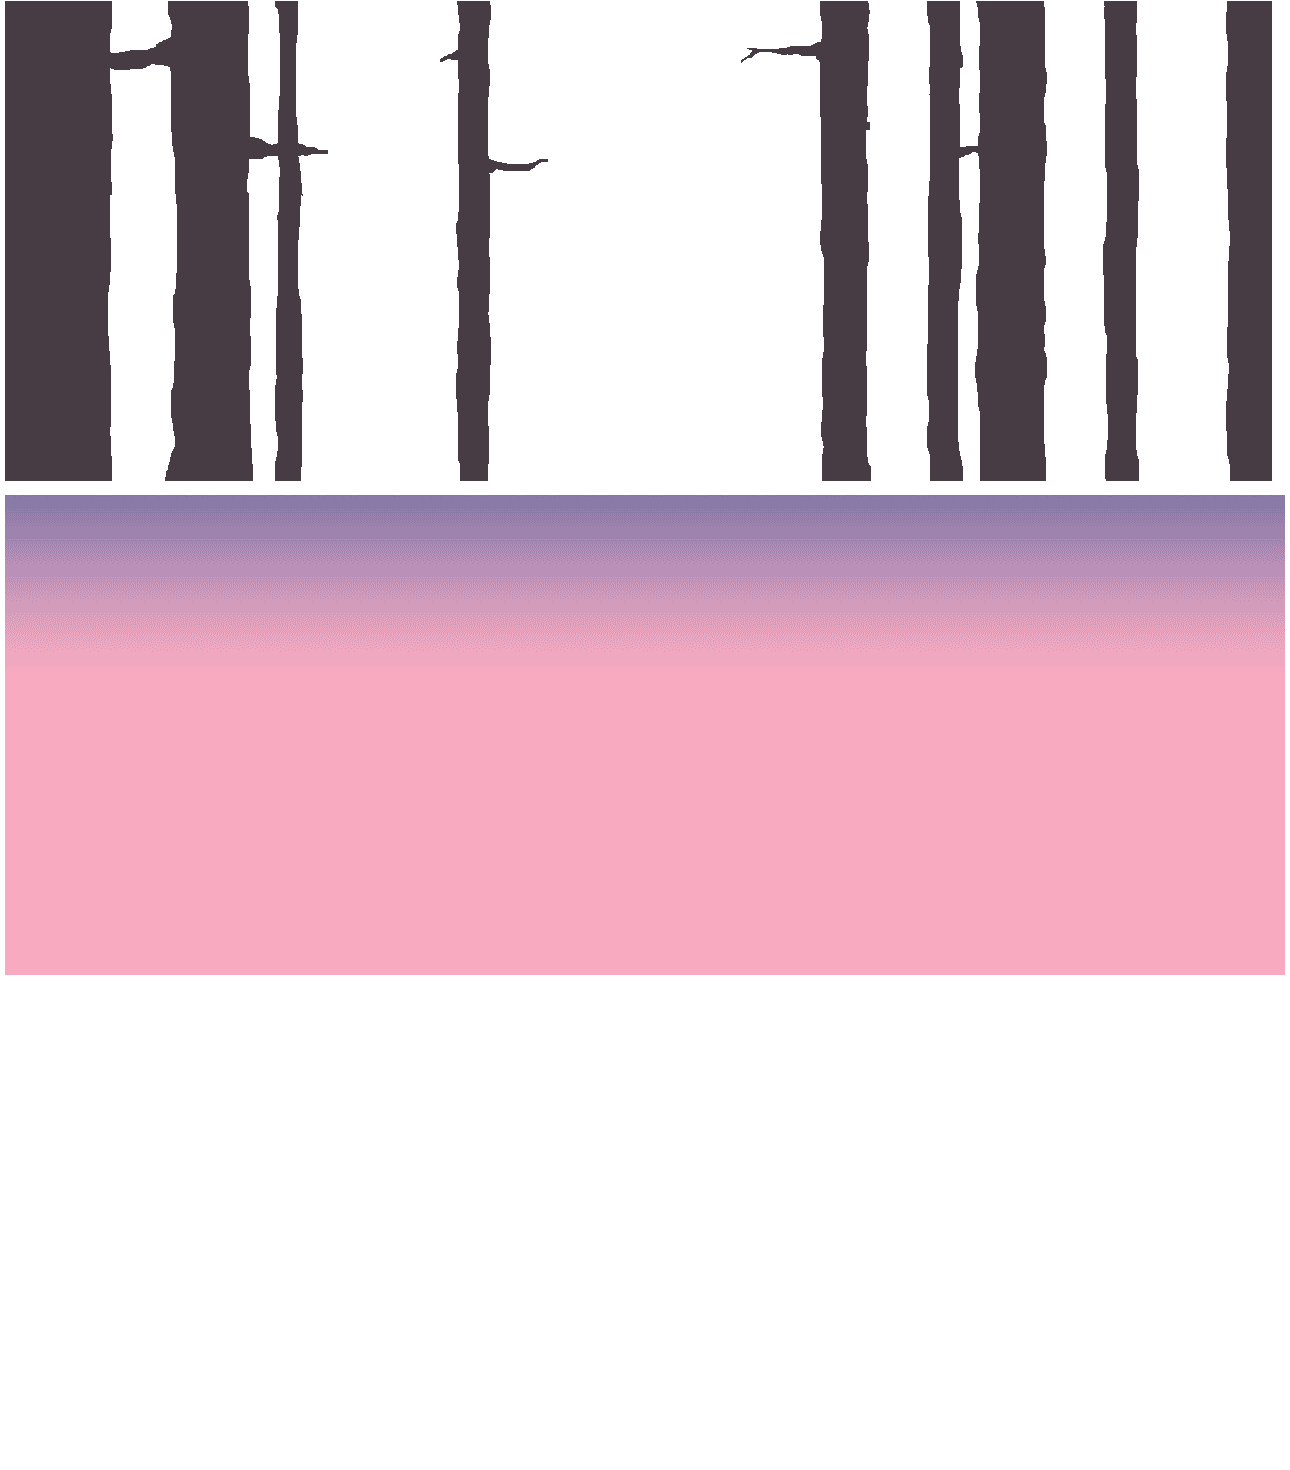
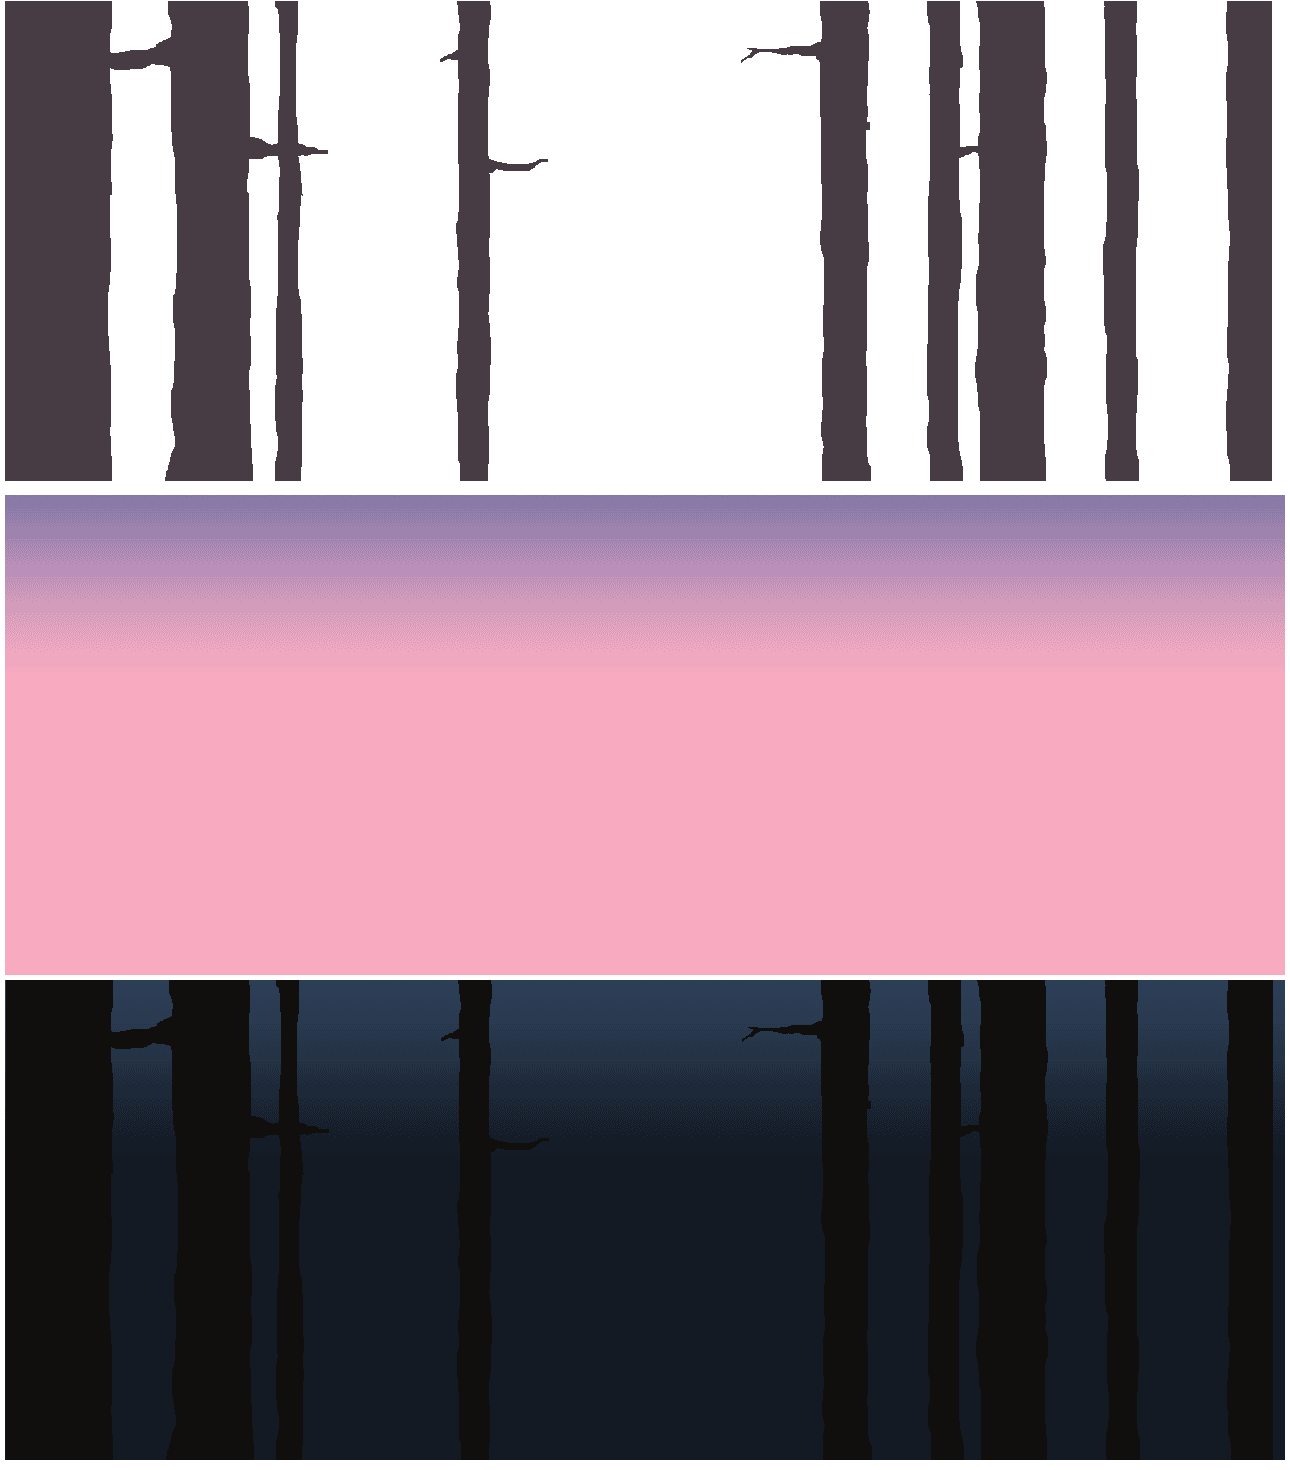
got spritesheet switching and colors changing for rush mode

diff --git a/common.js b/common.js
@@ -10,7 +10,8 @@ myLoader.addFiles(
   "images/wolflarge.png",
   "images/feathers.png",
   "images/hearts.png",
-  "images/wood.png"
+  "images/wood.png",
+  'images/combosprites.png'
   );
 
 myLoader.on('finish', function(){
@@ -30,6 +31,7 @@ $('#start').click(function(){
     start();
     $('#start').addClass("hidden");
     $('#racer').removeClass("hidden");
+    poofSound.play();
 });
 
 document.onkeydown=function(e){
@@ -38,6 +40,7 @@ document.onkeydown=function(e){
     title = false;
     $('#start').addClass("hidden");
     $('#racer').removeClass("hidden");
+    poofSound.play();
   }
 }
 
@@ -348,8 +351,13 @@ var Render = {
 
     var clipH = clipY ? Math.max(0, destY+destH-clipY) : 0;
     if (clipH < destH)
-      ctx.drawImage(sprites, sprite.x, sprite.y, sprite.w, sprite.h - (sprite.h*clipH/destH), destX, destY, destW, destH - clipH);
-
+      if (isCombo === false) {
+        ctx.drawImage(sprites, sprite.x, sprite.y, sprite.w, sprite.h - (sprite.h*clipH/destH), destX, destY, destW, destH - clipH);
+      } else if (isCombo === true && currentCombo >= 3) {
+        var img = new Image();   // Create new img element
+        img.src = 'images/combosprites.png'; // Set source path
+        ctx.drawImage(img, sprite.x, sprite.y, sprite.w, sprite.h - (sprite.h*clipH/destH), destX, destY, destW, destH - clipH);
+      }  
   },
 
   //---------------------------------------------------------------------------
@@ -409,6 +417,18 @@ var COLORS = {
   FINISH: { road: '#efefef',   grass: '#e9e9e9',   rumble: '#e9e9e9'               }
 };
 
+
+var COMBOCOLORS = {
+    SKY:  '#000000',
+    TREE: '#000000',
+    FOG:  '#000000',
+    LIGHT:  { road: '#1d2838',   grass: '#101a24',   rumble: '#101a24', lane: '#1d2838'  },
+    DARK:   { road: '#1d2838',   grass: '#101a24',   rumble: '#101a24'                   },
+    START:  { road: '#1d2838',   grass: '#101a24',   rumble: '#101a24'               },
+    FINISH: { road: '#1d2838',   grass: '#101a24',   rumble: '#101a24'               }
+  };
+
+
 var BACKGROUND = {
   HILLS: { x:   5, y:   5, w: 1280, h: 480 },
   SKY:   { x:   5, y: 495, w: 1280, h: 480 },
@@ -449,7 +469,7 @@ SPRITES.STUMPS     = [SPRITES.STUMP1, SPRITES.STUMP1];
     var offRoadDecel   = 0.99;                    // speed multiplier when off road (e.g. you lose 2% speed each update frame)
     var skySpeed       = 0.001;                   // background sky layer scroll speed when going around curve (or up hill)
     var hillSpeed      = 0.002;                   // background hill layer scroll speed when going around curve (or up hill)
-    var treeSpeed      = 0.003;                   // background tree layer scroll speed when going around curve (or up hill)
+    var treeSpeed      = 0.002;                   // background tree layer scroll speed when going around curve (or up hill)
     var skyOffset      = 0;                       // current sky scroll offset
     var hillOffset     = 0;                       // current hill scroll offset
     var treeOffset     = 0;                       // current tree scroll offset
@@ -473,7 +493,7 @@ SPRITES.STUMPS     = [SPRITES.STUMP1, SPRITES.STUMP1];
     var drawDistance   = 900;                     // number of segments to draw
     var playerX        = 0;                       // player x offset from center of road (-1 to 1 to stay independent of roadWidth)
     var playerZ        = null;                    // player relative z distance from camera (computed)
-    var fogDensity     = 20;                       // exponential fog density
+    var fogDensity     = 0;                       // exponential fog density
     var position       = 0;                       // current camera Z position (add playerZ to get player's absolute Z position)
     var speed          = 0;                       // current speed
     var maxSpeed       = segmentLength/step;      // top speed (ensure we can't move more than 1 segment in a single frame to make collision detection easier)
@@ -546,6 +566,12 @@ SPRITES.STUMPS     = [SPRITES.STUMP1, SPRITES.STUMP1];
 
       speed = Util.accelerate(speed, accel, dt);       
 
+      if (isCombo === true) {
+        $("#wolf").css("opacity", "0.5");
+      } else {
+        $("#wolf").css("opacity", "1");
+      }
+
       // if (speed < maxSpeed) {
       //   $('#wolf').css("animation-duration", "0.8s");
       // } else {
@@ -578,18 +604,19 @@ SPRITES.STUMPS     = [SPRITES.STUMP1, SPRITES.STUMP1];
             console.log(currentCombo);
             var currentSpeed = speed;
             speed    = 0;
-            if (currentCombo >= 11) {
-              carW = (car.sprite.w * SPRITES.SCALE) * 10;
+
+            if (currentCombo >= 3) {
+              carW = (car.sprite.w * SPRITES.SCALE) * 50;
               isCombo = true;
               $('#wolf').addClass("hidden");
-              console.log("combo");
             }  else { 
               isCombo = false;
             }
+
             setTimeout(function(){ 
               speed = currentSpeed + maxSpeed/20;
               if (isCombo) {
-                position += 5000;
+                position += 5250;
                 if (keyLeft) {
                   playerX = playerX - 0.4;
                 }
@@ -597,8 +624,9 @@ SPRITES.STUMPS     = [SPRITES.STUMP1, SPRITES.STUMP1];
                   playerX = playerX + 0.4;
                 }
               }
-              setTimeout( function(){$('#wolf').removeClass("hidden");}, 200);
+              setTimeout( function(){$('#wolf').removeClass("hidden");}, 250);
             }, 250);
+
             birds += 1;
             birdHealth += 1;
             if (birdHealth === 100) {
@@ -638,11 +666,11 @@ SPRITES.STUMPS     = [SPRITES.STUMP1, SPRITES.STUMP1];
         stumpW = stump.sprite.w * SPRITES.SCALE;
         if (speed > stump.speed) {
           if (Util.overlap(playerX, playerW, stump.offset, stumpW * 0.5, 1)) {
+            isCombo = false;
             var currentSpeed = speed;
             speed    = maxSpeed/3;
             setTimeout(function(){ speed = currentSpeed + maxSpeed/2; }, 400);
             // position = Util.increase(car.z, -playerZ, trackLength)
-            console.log(stump.z);
             playerSegment.stumps.splice();
             hearts--;
             woodSound.pause();
@@ -732,7 +760,6 @@ SPRITES.STUMPS     = [SPRITES.STUMP1, SPRITES.STUMP1];
         newSegment  = findSegment(car.z);
         if (oldSegment != newSegment) {
           combo = false;
-          console.log(combo);
           index = oldSegment.cars.indexOf(car);
           oldSegment.cars.splice(index, 1);
           newSegment.cars.push(car);
@@ -886,8 +913,9 @@ SPRITES.STUMPS     = [SPRITES.STUMP1, SPRITES.STUMP1];
 
       Render.background(ctx, background, width, height, BACKGROUND.SKY,   skyOffset,  resolution * skySpeed  * playerY);
       Render.background(ctx, background, width, height, BACKGROUND.HILLS, hillOffset, resolution * hillSpeed * playerY);
-      Render.background(ctx, background, width, height, BACKGROUND.TREES, treeOffset, resolution * treeSpeed * playerY);
-
+      if (isCombo === true) {
+        Render.background(ctx, background, width, height, BACKGROUND.TREES, treeOffset, resolution * treeSpeed * playerY);
+      }
       var n, i, segment, car, stump, sprite, spriteScale, spriteX, spriteY;
 
       for(n = 0 ; n < drawDistance ; n++) {
@@ -907,8 +935,16 @@ SPRITES.STUMPS     = [SPRITES.STUMP1, SPRITES.STUMP1];
             (segment.p2.screen.y >= segment.p1.screen.y) || // back face cull
             (segment.p2.screen.y >= maxy))                  // clip by (already rendered) hill
           continue;
+        renderRoad();
+      } 
 
-        Render.segment(ctx, width, lanes,
+      function renderRoad() {
+        if (isCombo === true && currentCombo >= 3) {
+          segment.color = Math.floor(n/rumbleLength)%2 ? COMBOCOLORS.DARK : COMBOCOLORS.LIGHT;
+        } else {
+          segment.color = Math.floor(n/rumbleLength)%2 ? COLORS.DARK : COLORS.LIGHT;
+        }
+                Render.segment(ctx, width, lanes,
                        segment.p1.screen.x,
                        segment.p1.screen.y,
                        segment.p1.screen.w,
@@ -917,7 +953,7 @@ SPRITES.STUMPS     = [SPRITES.STUMP1, SPRITES.STUMP1];
                        segment.p2.screen.w,
                        segment.fog,
                        segment.color);
-
+        
         maxy = segment.p1.screen.y;
       }
 
@@ -941,13 +977,14 @@ SPRITES.STUMPS     = [SPRITES.STUMP1, SPRITES.STUMP1];
           spriteY     = Util.interpolate(segment.p1.screen.y,     segment.p2.screen.y,     stump.percent);
           Render.sprite(ctx, width, height, resolution, roadWidth, sprites, stump.sprite, (spriteScale/1.5), spriteX, spriteY, -0.5, -1, segment.clip);
         }
-
+       
         for(i = 0 ; i < segment.sprites.length ; i++) {
-          sprite      = segment.sprites[i];
-          spriteScale = segment.p1.screen.scale * 10;
-          spriteX     = segment.p1.screen.x + (spriteScale * sprite.offset * roadWidth * width/2);
-          spriteY     = segment.p1.screen.y;
-          Render.sprite(ctx, width, height, resolution, roadWidth, sprites, sprite.source, spriteScale, spriteX, spriteY, (sprite.offset < 0 ? -1 : 0), -1, segment.clip);
+            sprite      = segment.sprites[i];
+            spriteScale = segment.p1.screen.scale * 10;
+            spriteX     = segment.p1.screen.x + (spriteScale * sprite.offset * roadWidth * width/2);
+            spriteY     = segment.p1.screen.y;
+
+            Render.sprite(ctx, width, height, resolution, roadWidth, sprites, sprite.source, spriteScale, spriteX, spriteY, (sprite.offset < 0 ? -1 : 0), -1, segment.clip);
         }
 
         if (segment == playerSegment) {
@@ -972,7 +1009,7 @@ SPRITES.STUMPS     = [SPRITES.STUMP1, SPRITES.STUMP1];
     function lastY() { return (segments.length == 0) ? 0 : segments[segments.length-1].p2.world.y; }
 
     function addSegment(curve, y) {
-      var n = segments.length;
+    var n = segments.length;
       segments.push({
           index: n,
              p1: { world: { y: lastY(), z:  n   *segmentLength }, camera: {}, screen: {} },
@@ -1062,7 +1099,7 @@ SPRITES.STUMPS     = [SPRITES.STUMP1, SPRITES.STUMP1];
 
     function resetRoad() {
       segments = [];
-
+      addStraight(1000)
       addHill(ROAD.LENGTH.SHORT, -ROAD.HILL.HARD);
       addLowRollingHills();
       addSCurves();
@@ -1149,8 +1186,7 @@ SPRITES.STUMPS     = [SPRITES.STUMP1, SPRITES.STUMP1];
       cars = [];
       var n, car, segment, offset, z, sprite, speed;
       var lastCar = 20000;
-      var lastCarX = 0;
-      intro(lastCar);
+      randomCars(lastCar, n, car, segment, offset, z, sprite, speed);
     }
 
     function BirdMiddle(lastCar) {
@@ -1209,29 +1245,27 @@ SPRITES.STUMPS     = [SPRITES.STUMP1, SPRITES.STUMP1];
     }
 
 
-    // function resetCars() {
-    //   cars = [];
-    //   var n, car, segment, offset, z, sprite, speed;
-    //   var lastCar = 10000;
-    //   var lastCarX = 0;
-    //   if (totalCars > 50) {
-    //     totalCars = totalCars * 0.5;
-    //   }
-    //   for (var n = 50 ; n < totalCars ; n++) {
-    //     lastCar += 6000;
-    //     offset = Math.random() * Util.randomChoice([-1, 1]) + 0.6;
-    //     lastCarX = offset;
-    //     z      = lastCar + (Math.floor(Math.random() * 10) + 1) * 100
-    //     sprite = Util.randomChoice(SPRITES.CARS);
-    //     speed  = maxSpeed/4 + Math.random() * maxSpeed/(sprite == SPRITES.SEMI ? 4 : 2);
-    //     car = { offset: offset, z: z, sprite: sprite, speed: speed };
-    //     segment = findSegment(car.z);
-    //     if (z < segments.length * segmentLength) {
-    //     segment.cars.push(car);
-    //     cars.push(car);
-    //   }
-    //   }
-    // }
+    function randomCars(lastCar, n, car, segment, offset, z, sprite, speed) {
+      cars = [];
+      var n, car, segment, offset, z, sprite, speed;
+      if (totalCars > 50) {
+        totalCars = totalCars * 0.5;
+      }
+      for (var n = 50 ; n < totalCars ; n++) {
+        lastCar += 6000;
+        offset = 0;
+        lastCarX = offset;
+        z      = lastCar + (Math.floor(Math.random() * 10) + 1) * 100
+        sprite = Util.randomChoice(SPRITES.CARS);
+        speed  = maxSpeed/4 + Math.random() * maxSpeed/(sprite == SPRITES.SEMI ? 4 : 2);
+        car = { offset: offset, z: z, sprite: sprite, speed: speed };
+        segment = findSegment(car.z);
+        if (z < segments.length * segmentLength) {
+        segment.cars.push(car);
+        cars.push(car);
+      }
+      }
+    }
 
     function resetStumps() {
       stumps = [];
@@ -1274,8 +1308,6 @@ SPRITES.STUMPS     = [SPRITES.STUMP1, SPRITES.STUMP1];
         background = images[0];
         sprites    = images[1];
         reset();
-        Dom.storage.fast_lap_time = Dom.storage.fast_lap_time || 180;
-        updateHud('fast_lap_time', formatTime(Util.toFloat(Dom.storage.fast_lap_time)));
       }
     });
 
